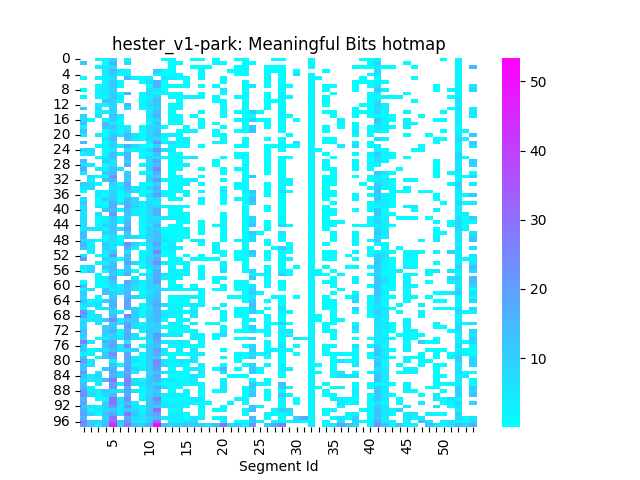
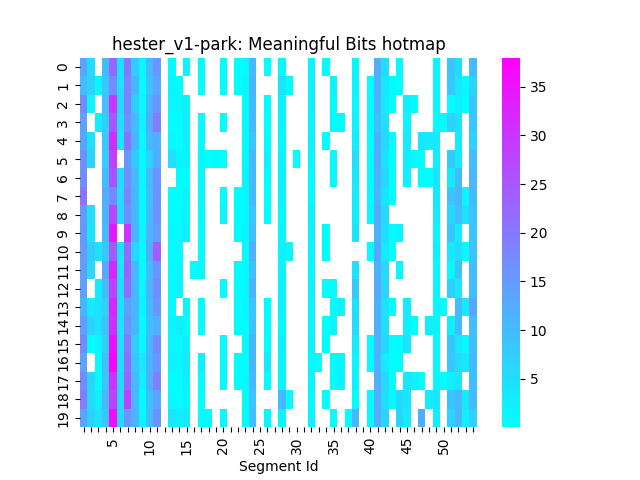
adding key points mbits

diff --git a/7e71ecbb7830fd69dc78ba1369a452129b88e980fdbb6d63285fbb8f912f/key_points_vs_real_mbits_difference_plot.html b/7e71ecbb7830fd69dc78ba1369a452129b88e980fdbb6d63285fbb8f912f/key_points_vs_real_mbits_difference_plot.html
@@ -1,0 +1,106 @@
+<!DOCTYPE html>
+<html lang="en">
+
+<head>
+    <meta charset="UTF-8">
+    <meta name="viewport" content="width=device-width, initial-scale=1.0">
+    <title>Difference between Mbits rate for key points and real narrative</title>
+    <link rel="stylesheet" href="../assets/styles.css">
+</head>
+
+<body>
+    <header>
+        <h1>Difference between Mbits rate for key points and real narrative</h1>
+    <h3>See code at <a
+            href="https://github.com/Ilyashn972/llm-narrative-analysis/blob/main/experiments/key_point_impact_on_logp.py">
+            key_point_impact_on_logp.py</a>
+    </h3>
+    </header>
+
+    <section class="toc">
+        <h2>Table of Contents</h2>
+        <ul>
+            <li><a href="#bear">Bear</a></li>
+            <li><a href="#boy-scout">Boy Scout</a></li>
+            <li><a href="#costa">Costa</a></li>
+            <li><a href="#do-something">Do Something</a></li>
+            <li><a href="#hester-v1-park">Hester v1 Park</a></li>
+            <li><a href="#hester-v2-church">Hester v2 Church</a></li>
+            <li><a href="#panic">Panic</a></li>
+            <li><a href="#schissel-v1-pool">Schissel v1 Pool</a></li>
+            <li><a href="#schissel-v2-lake">Schissel v2 Lake</a></li>
+            <li><a href="#stein">Stein</a></li>
+            <li><a href="#stein-final">Stein Final</a></li>
+            <li><a href="#triplett-v1-rookie">Triplett v1 Rookie</a></li>
+            <li><a href="#triplett-v2-cat-lady">Triplett v2 Cat Lady</a></li>
+        </ul>
+    </section>
+
+    <section class="image-section" id="bear">
+        <h2>Bear</h2>
+        <img src="bear/key_points_vs_real_mbits_difference_plot.png" alt="Bear">
+    </section>
+
+    <section class="image-section" id="boy-scout">
+        <h2>Boy Scout</h2>
+        <img src="boyscout/key_points_vs_real_mbits_difference_plot.png" alt="Boy Scout">
+    </section>
+
+    <section class="image-section" id="costa">
+        <h2>Costa</h2>
+        <img src="costa/key_points_vs_real_mbits_difference_plot.png" alt="Costa">
+    </section>
+
+    <section class="image-section" id="do-something">
+        <h2>Do Something</h2>
+        <img src="doSomething/key_points_vs_real_mbits_difference_plot.png" alt="Do Something">
+    </section>
+
+    <section class="image-section" id="hester-v1-park">
+        <h2>Hester v1 Park</h2>
+        <img src="hester_v1-park/key_points_vs_real_mbits_difference_plot.png" alt="Hester v1 Park">
+    </section>
+
+    <section class="image-section" id="hester-v2-church">
+        <h2>Hester v2 Church</h2>
+        <img src="hester_v2-church/key_points_vs_real_mbits_difference_plot.png" alt="Hester v2 Church">
+    </section>
+
+    <section class="image-section" id="panic">
+        <h2>Panic</h2>
+        <img src="panic/key_points_vs_real_mbits_difference_plot.png" alt="Panic">
+    </section>
+
+    <section class="image-section" id="schissel-v1-pool">
+        <h2>Schissel v1 Pool</h2>
+        <img src="schissel_v1-pool/key_points_vs_real_mbits_difference_plot.png" alt="Schissel v1 Pool">
+    </section>
+
+    <section class="image-section" id="schissel-v2-lake">
+        <h2>Schissel v2 Lake</h2>
+        <img src="schissel_v2-lake/key_points_vs_real_mbits_difference_plot.png" alt="Schissel v2 Lake">
+    </section>
+
+    <section class="image-section" id="stein">
+        <h2>Stein</h2>
+        <img src="stein/key_points_vs_real_mbits_difference_plot.png" alt="Stein">
+    </section>
+
+    <section class="image-section" id="stein-final">
+        <h2>Stein Final</h2>
+        <img src="stein_final/key_points_vs_real_mbits_difference_plot.png" alt="Stein Final">
+    </section>
+
+    <section class="image-section" id="triplett-v1-rookie">
+        <h2>Triplett v1 Rookie</h2>
+        <img src="triplett_v1-rookie/key_points_vs_real_mbits_difference_plot.png" alt="Triplett v1 Rookie">
+    </section>
+
+    <section class="image-section" id="triplett-v2-cat-lady">
+        <h2>Triplett v2 Cat Lady</h2>
+        <img src="triplett_v2-catlady/key_points_vs_real_mbits_difference_plot.png" alt="Triplett v2 Cat Lady">
+    </section>
+
+</body>
+
+</html>

diff --git a/7e71ecbb7830fd69dc78ba1369a452129b88e980fdbb6d63285fbb8f912f/key_points_vs_real_mbits_scatter_plot.html b/7e71ecbb7830fd69dc78ba1369a452129b88e980fdbb6d63285fbb8f912f/key_points_vs_real_mbits_scatter_plot.html
@@ -1,0 +1,106 @@
+<!DOCTYPE html>
+<html lang="en">
+
+<head>
+    <meta charset="UTF-8">
+    <meta name="viewport" content="width=device-width, initial-scale=1.0">
+    <title>Mbits rate for key points vs real narrative</title>
+    <link rel="stylesheet" href="../assets/styles.css">
+</head>
+
+<body>
+    <header>
+        <h1>Mbits rate for key points vs real narrative</h1>
+    <h3>See code at <a
+            href="https://github.com/Ilyashn972/llm-narrative-analysis/blob/main/experiments/key_point_impact_on_logp.py">
+            key_point_impact_on_logp.py</a>
+    </h3>
+    </header>
+
+    <section class="toc">
+        <h2>Table of Contents</h2>
+        <ul>
+            <li><a href="#bear">Bear</a></li>
+            <li><a href="#boy-scout">Boy Scout</a></li>
+            <li><a href="#costa">Costa</a></li>
+            <li><a href="#do-something">Do Something</a></li>
+            <li><a href="#hester-v1-park">Hester v1 Park</a></li>
+            <li><a href="#hester-v2-church">Hester v2 Church</a></li>
+            <li><a href="#panic">Panic</a></li>
+            <li><a href="#schissel-v1-pool">Schissel v1 Pool</a></li>
+            <li><a href="#schissel-v2-lake">Schissel v2 Lake</a></li>
+            <li><a href="#stein">Stein</a></li>
+            <li><a href="#stein-final">Stein Final</a></li>
+            <li><a href="#triplett-v1-rookie">Triplett v1 Rookie</a></li>
+            <li><a href="#triplett-v2-cat-lady">Triplett v2 Cat Lady</a></li>
+        </ul>
+    </section>
+
+    <section class="image-section" id="bear">
+        <h2>Bear</h2>
+        <img src="bear/key_points_vs_real_mbits_scatter_plot.png" alt="Bear">
+    </section>
+
+    <section class="image-section" id="boy-scout">
+        <h2>Boy Scout</h2>
+        <img src="boyscout/key_points_vs_real_mbits_scatter_plot.png" alt="Boy Scout">
+    </section>
+
+    <section class="image-section" id="costa">
+        <h2>Costa</h2>
+        <img src="costa/key_points_vs_real_mbits_scatter_plot.png" alt="Costa">
+    </section>
+
+    <section class="image-section" id="do-something">
+        <h2>Do Something</h2>
+        <img src="doSomething/key_points_vs_real_mbits_scatter_plot.png" alt="Do Something">
+    </section>
+
+    <section class="image-section" id="hester-v1-park">
+        <h2>Hester v1 Park</h2>
+        <img src="hester_v1-park/key_points_vs_real_mbits_scatter_plot.png" alt="Hester v1 Park">
+    </section>
+
+    <section class="image-section" id="hester-v2-church">
+        <h2>Hester v2 Church</h2>
+        <img src="hester_v2-church/key_points_vs_real_mbits_scatter_plot.png" alt="Hester v2 Church">
+    </section>
+
+    <section class="image-section" id="panic">
+        <h2>Panic</h2>
+        <img src="panic/key_points_vs_real_mbits_scatter_plot.png" alt="Panic">
+    </section>
+
+    <section class="image-section" id="schissel-v1-pool">
+        <h2>Schissel v1 Pool</h2>
+        <img src="schissel_v1-pool/key_points_vs_real_mbits_scatter_plot.png" alt="Schissel v1 Pool">
+    </section>
+
+    <section class="image-section" id="schissel-v2-lake">
+        <h2>Schissel v2 Lake</h2>
+        <img src="schissel_v2-lake/key_points_vs_real_mbits_scatter_plot.png" alt="Schissel v2 Lake">
+    </section>
+
+    <section class="image-section" id="stein">
+        <h2>Stein</h2>
+        <img src="stein/key_points_vs_real_mbits_scatter_plot.png" alt="Stein">
+    </section>
+
+    <section class="image-section" id="stein-final">
+        <h2>Stein Final</h2>
+        <img src="stein_final/key_points_vs_real_mbits_scatter_plot.png" alt="Stein Final">
+    </section>
+
+    <section class="image-section" id="triplett-v1-rookie">
+        <h2>Triplett v1 Rookie</h2>
+        <img src="triplett_v1-rookie/key_points_vs_real_mbits_scatter_plot.png" alt="Triplett v1 Rookie">
+    </section>
+
+    <section class="image-section" id="triplett-v2-cat-lady">
+        <h2>Triplett v2 Cat Lady</h2>
+        <img src="triplett_v2-catlady/key_points_vs_real_mbits_scatter_plot.png" alt="Triplett v2 Cat Lady">
+    </section>
+
+</body>
+
+</html>

diff --git a/7e71ecbb7830fd69dc78ba1369a452129b88e980fdbb6d63285fbb8f912f/index.html b/7e71ecbb7830fd69dc78ba1369a452129b88e980fdbb6d63285fbb8f912f/index.html
@@ -171,7 +171,14 @@
             <a href="mbits_for_summaries_and_recalls.html"> "Plot meaningful bits for selected recalls and a few attempts for gpt4 summaries" </a>
         </li>
         <li>
-            <a href="emulation_and_real_mbits_scatter_plot.html"> "PlEmulation vs Real Recalls Mbits" </a>
+            <a href="emulation_and_real_mbits_scatter_plot.html"> "Emulation vs Real Recalls Mbits" </a>
+        </li>
+        <li>
+            <a href="key_points_vs_real_mbits_scatter_plot.html"> Mbits rate for key points vs real narrative </a>
+        </li>
+        <li>
+            <a href="key_points_vs_real_mbits_difference_plot.html"> Difference between Mbits rate for key points and real
+                narrative </a>
         </li>
         </ul>
         <h4> TODO: </h4>
